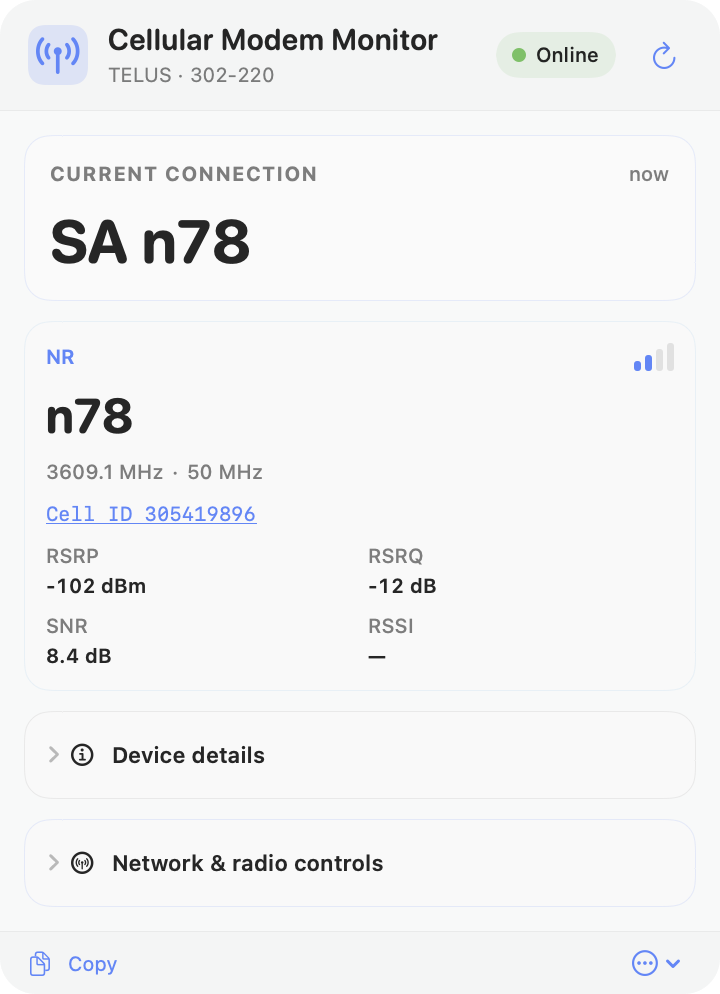
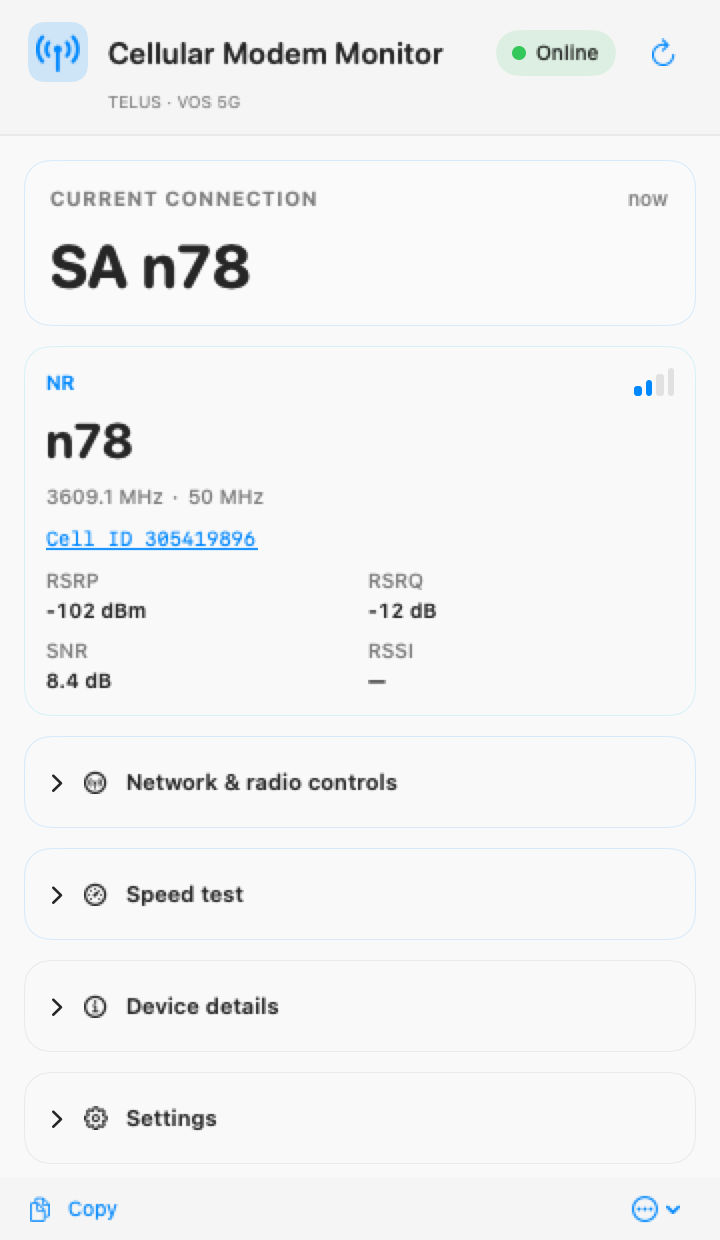
Prepare v1.5.2 release

diff --git a/scripts/ReadmeScreenshotGenerator.swift b/scripts/ReadmeScreenshotGenerator.swift
@@ -1,0 +1,88 @@
+import AppKit
+import SwiftUI
+
+@main
+enum ReadmeScreenshotGenerator {
+    @MainActor
+    static func main() {
+        guard CommandLine.arguments.count >= 2 else {
+            fputs("usage: ReadmeScreenshotGenerator OUTPUT.png [--demo-sa|--demo-controls]\n", stderr)
+            exit(64)
+        }
+
+        let outputURL = URL(fileURLWithPath: CommandLine.arguments[1])
+        let showsControls = CommandLine.arguments.contains("--demo-controls")
+        let pointSize = NSSize(width: 360, height: showsControls ? 1_300 : 620)
+        let defaults = UserDefaults(suiteName: "CellularModemMonitorReadmeFixture")!
+        defaults.removePersistentDomain(forName: "CellularModemMonitorReadmeFixture")
+        defaults.set(AppLanguage.english.rawValue, forKey: "appLanguage")
+
+        let model = StatusModel(defaults: defaults)
+        model.language = .english
+        let updater = SoftwareUpdater()
+        let content = StatusPanel(
+            initiallyShowNetworkControls: showsControls,
+            panelHeightLimit: pointSize.height
+        )
+        .environmentObject(model)
+        .environmentObject(updater)
+        .environment(\.appLanguage, AppLanguage.english)
+        .environment(\.locale, AppLanguage.english.locale)
+        .preferredColorScheme(showsControls ? .dark : .light)
+
+        let hostingView = NSHostingView(rootView: content)
+        hostingView.frame = NSRect(origin: .zero, size: pointSize)
+        let window = NSWindow(
+            contentRect: NSRect(origin: .zero, size: pointSize),
+            styleMask: .borderless,
+            backing: .buffered,
+            defer: false
+        )
+        window.isOpaque = false
+        window.backgroundColor = .clear
+        window.contentView = hostingView
+        window.orderFrontRegardless()
+
+        let application = NSApplication.shared
+        DispatchQueue.main.asyncAfter(deadline: .now() + 2) {
+            hostingView.layoutSubtreeIfNeeded()
+            do {
+                try render(hostingView, pointSize: pointSize, to: outputURL)
+                application.terminate(nil)
+            } catch {
+                fputs("screenshot failed: \(error.localizedDescription)\n", stderr)
+                exit(1)
+            }
+        }
+        application.run()
+    }
+
+    @MainActor
+    private static func render(
+        _ view: NSView,
+        pointSize: NSSize,
+        to outputURL: URL
+    ) throws {
+        guard let bitmap = NSBitmapImageRep(
+            bitmapDataPlanes: nil,
+            pixelsWide: Int(pointSize.width * 2),
+            pixelsHigh: Int(pointSize.height * 2),
+            bitsPerSample: 8,
+            samplesPerPixel: 4,
+            hasAlpha: true,
+            isPlanar: false,
+            colorSpaceName: .deviceRGB,
+            bitmapFormat: [],
+            bytesPerRow: 0,
+            bitsPerPixel: 0
+        ) else {
+            throw NSError(domain: "ReadmeScreenshotGenerator", code: 1)
+        }
+        bitmap.size = pointSize
+        view.cacheDisplay(in: view.bounds, to: bitmap)
+        guard let png = bitmap.representation(using: .png, properties: [:]) else {
+            throw NSError(domain: "ReadmeScreenshotGenerator", code: 2)
+        }
+        try png.write(to: outputURL, options: .atomic)
+    }
+}

diff --git a/README.md b/README.md
@@ -14,7 +14,7 @@ either the VOS SSH/QMI backend or the ZTE authenticated Web UBus backend.
   <img src="assets/cellular-modem-monitor-sa-n78.png" width="340" alt="Cellular Modem Monitor showing a 5G SA n78 connection">
   <img src="assets/cellular-modem-monitor-nsa-n78-b2.png" width="340" alt="Cellular Modem Monitor showing a 5G NSA n78 and LTE B2 connection">
   <br>
-  <sub>VOS 5G SA n78 and NSA n78+B2 examples; demo values use synthetic Cell IDs.</sub>
+  <sub>Current SA overview and NSA radio-controls layouts; demo values use synthetic Cell IDs.</sub>
 </p>
 
 ## Features

diff --git a/README.zh-CN.md b/README.zh-CN.md
@@ -12,7 +12,7 @@
   <img src="assets/cellular-modem-monitor-sa-n78.png" width="340" alt="Cellular Modem Monitor 显示 5G SA n78 连接">
   <img src="assets/cellular-modem-monitor-nsa-n78-b2.png" width="340" alt="Cellular Modem Monitor 显示 5G NSA n78 与 LTE B2 连接">
   <br>
-  <sub>VOS 5G SA n78 与 NSA n78+B2 示例；图中使用虚构 Cell ID。</sub>
+  <sub>当前 SA 概览与 NSA 无线控制界面；图中使用虚构 Cell ID。</sub>
 </p>
 
 ## 功能
